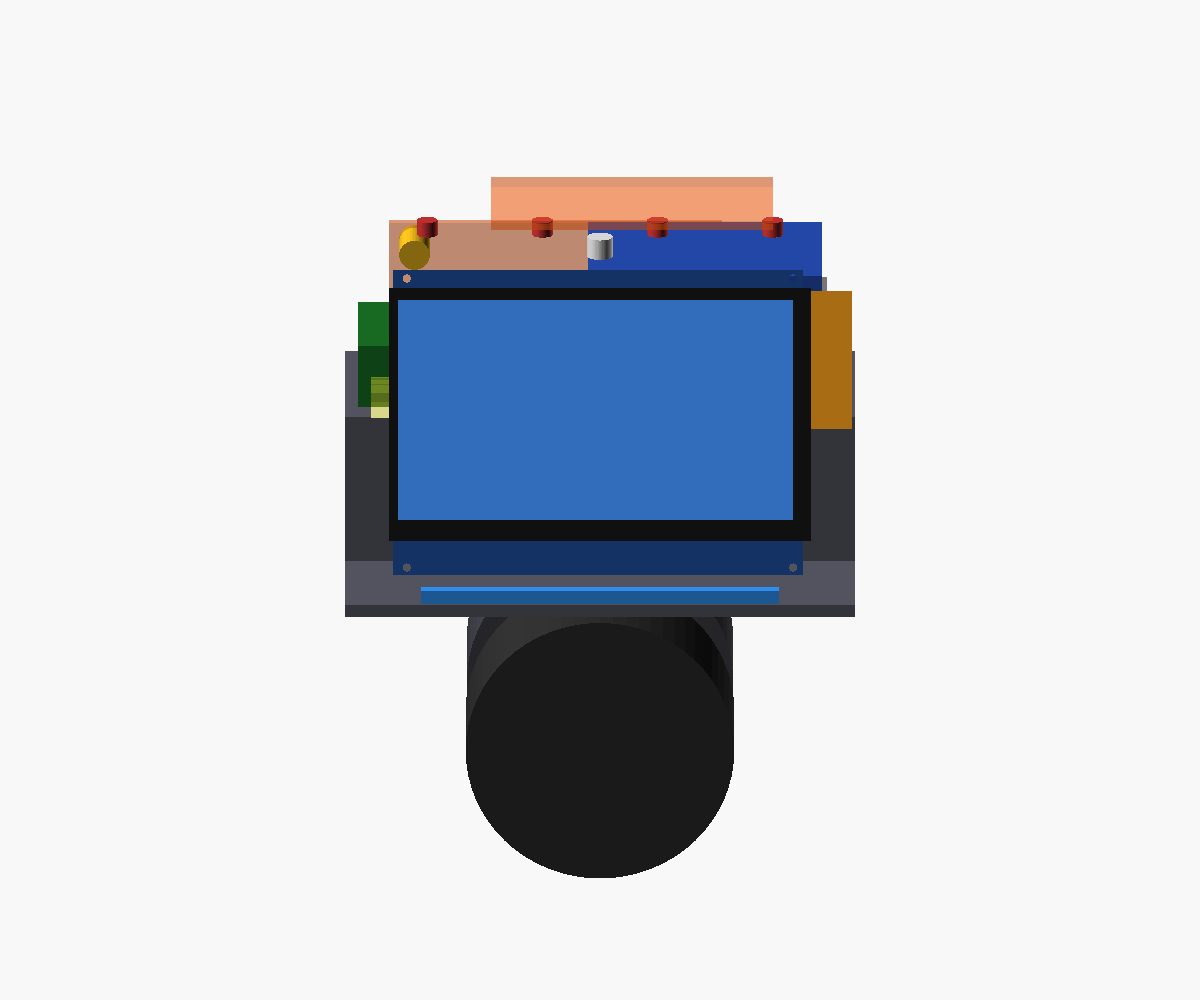
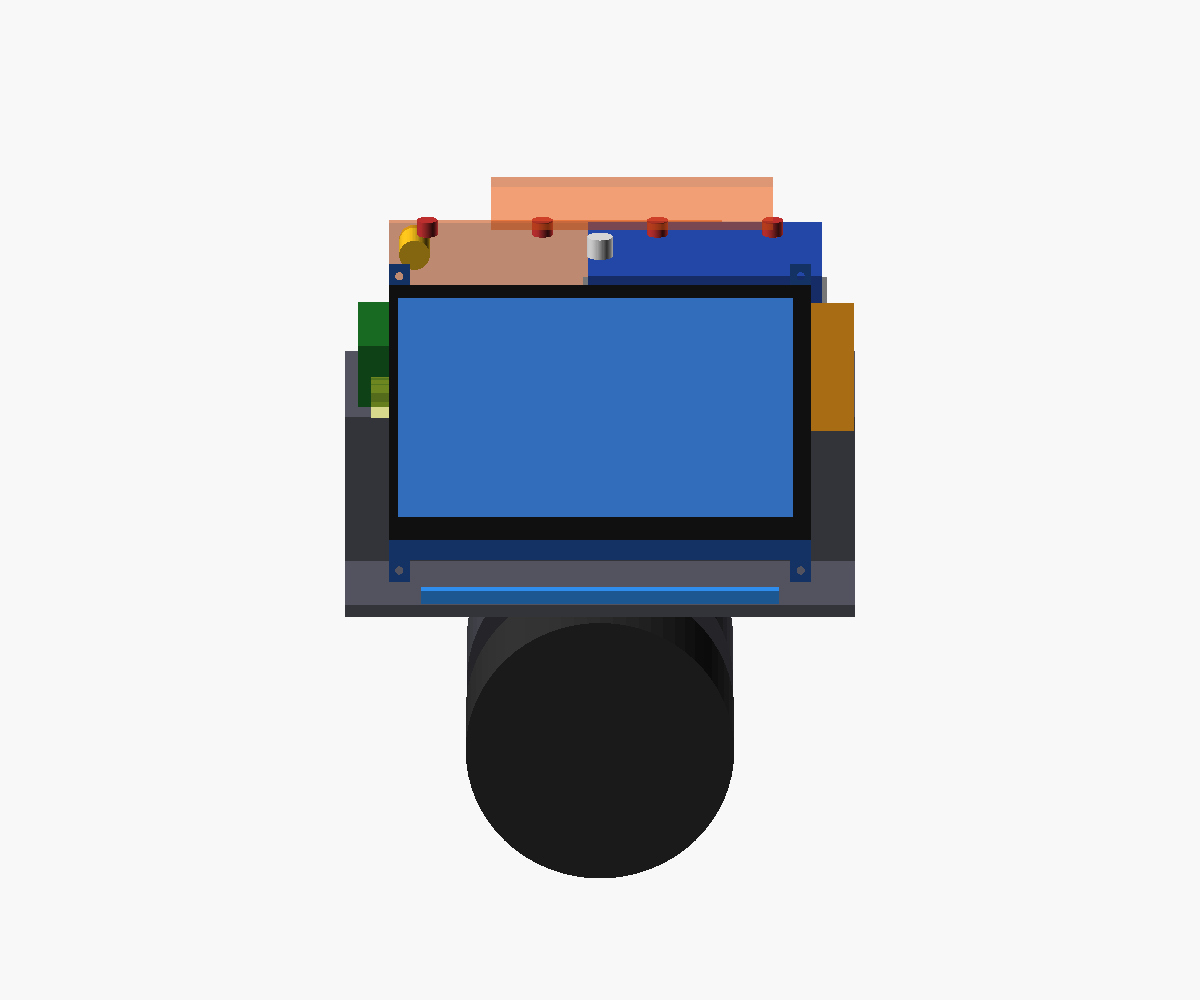
Pantalla: cotas del plano oficial de Waveshare
Alto con pestañas 124,27 mm, taladros 156,90 × 114,96 mm y posición de
HDMI, micro-USB e interruptor según el plano. Comprobación sin interferencias.

Claude-Session: https://claude.ai/code/session_011wCrvR5XLZziNZnBQxWkpT

Changed region(s): [[0.3083, 0.248, 0.7092, 0.31], [0.3083, 0.527, 0.6783, 0.589]]

diff --git a/docs/06_pantalla.md b/docs/06_pantalla.md
@@ -7,30 +7,34 @@ Modelo: Waveshare 7inch HDMI LCD (C) Rev4.1, 1024×600, IPS, táctil capacitivo 
 
 ![Frontal v0.3](img/v0_3_frontal_pantalla.png)
 
-## Medidas (sacadas de fotos de la unidad real, ±1–2 mm)
-Pendientes de confirmar con calibre antes de diseñar el marco.
+## Medidas
+Las cotas del PCB, los taladros y los conectores salen del plano oficial de Waveshare. Las del cristal y el área visible, de fotos de la unidad real (±1 mm).
 
-| Cota | Valor | Nota |
+| Cota | Valor | Fuente |
 |---|---:|---|
-| Ancho del cristal | 164,9 mm | es el elemento más ancho |
-| Alto del cristal | ≈ 98,6 mm | |
-| Alto total con pestañas | ≈ 119 mm | la hoja de datos da 124,27: medir |
-| Área visible | 154,2 × 85,9 mm | |
-| Margen cristal → área visible | izq. ≈ 3,6 · der. ≈ 7,1 · sup. ≈ 4,5 · inf. ≈ 8,2 mm | el área visible no está centrada |
-| Cristal → cara trasera del PCB | ≈ 9,5 mm | |
-| Conectores detrás del PCB | ≈ 7 mm (HDMI) | |
-| Taladros de fijación | 4, en pestañas, ≈ 151 × 113 mm entre centros | medir |
+| Ancho total | 164,90 mm | plano |
+| Alto total con pestañas | 124,27 mm | plano |
+| Alto del PCB entre pestañas | 106,96 mm | plano |
+| Hueco entre pestañas (arriba) | 148,90 mm | plano |
+| Taladros de fijación | 4 × 156,90 × 114,96 mm entre centros, a 4,0 mm de los laterales | plano |
+| Alto del cristal | ≈ 99,8 mm | foto |
+| Área visible | 154,21 × 85,92 mm | hoja de datos |
+| Margen cristal → área visible | izq. ≈ 3,6 · der. ≈ 7,1 · sup. ≈ 4,9 · inf. ≈ 9,0 mm | foto |
+| Cristal → cara trasera del PCB | ≈ 9,5 mm | foto |
+| Conectores detrás del PCB | ≈ 7 mm (HDMI) | foto |
+
+Falta medir con calibre el diámetro de los taladros (se asume M3 → 3,2 mm) y el grosor.
 
 ## Conectores
 Mirando la pantalla de frente, con el flex del LCD abajo:
 - todos en el **canto derecho**, en la mitad superior;
-- de arriba abajo: HDMI (≈ 13–30 mm desde el borde superior de las pestañas), micro-USB del táctil (≈ 37–43 mm) e interruptor de retroiluminación (≈ 49–58 mm);
+- de arriba abajo, medido desde el borde superior de las pestañas: HDMI (18–34 mm), micro-USB del táctil (41–49 mm) e interruptor de retroiluminación (54–62 mm). El HDMI sobresale unos 2 mm del canto;
 - las clavijas entran de lado (en horizontal), no por detrás.
 
 Por eso hacen falta **clavijas acodadas** (D021):
 - HDMI: cable plano HDMI-A → micro-HDMI con cabezales a 90°, o un adaptador HDMI a 90° + cable;
 - táctil: cable micro-USB acodado → USB-A.
 
-El modelo reserva 15 mm libres a la derecha del cristal. Por eso los laterales de la carcasa ya no se estrechan.
+El modelo reserva 15 mm libres a la derecha del conector. Con la pantalla centrada, ese hueco llega justo a la pared interior. Cuando elijamos los cables concretos hay que confirmar que su clavija acodada cabe en 15 mm; si no, habría que desplazar la pantalla un par de milímetros a la izquierda o ensanchar la carcasa. Por esto mismo los laterales ya no se estrechan.
 
 El interruptor de retroiluminación queda accesible solo con la carcasa abierta. Déjalo en ON.

diff --git a/CHANGELOG.md b/CHANGELOG.md
@@ -1,4 +1,8 @@
 # Changelog
+## v0.3.1
+- Pantalla con las cotas del plano oficial de Waveshare: 124,27 mm de alto con pestañas, taladros a 156,90 × 114,96 mm y posición exacta de HDMI, micro-USB e interruptor.
+- PCB modelado con pestañas y hueco central.
+
 ## v0.3
 - Nuevo perfil lateral: frontal inferior vertical + frontal superior inclinado 18° para la pantalla (D015).
 - Cámara acústica en L: ≈3,3 L netos medidos sobre el modelo. Con el esquema de v0.2 se quedaba en ≈2,5 L (D016).
